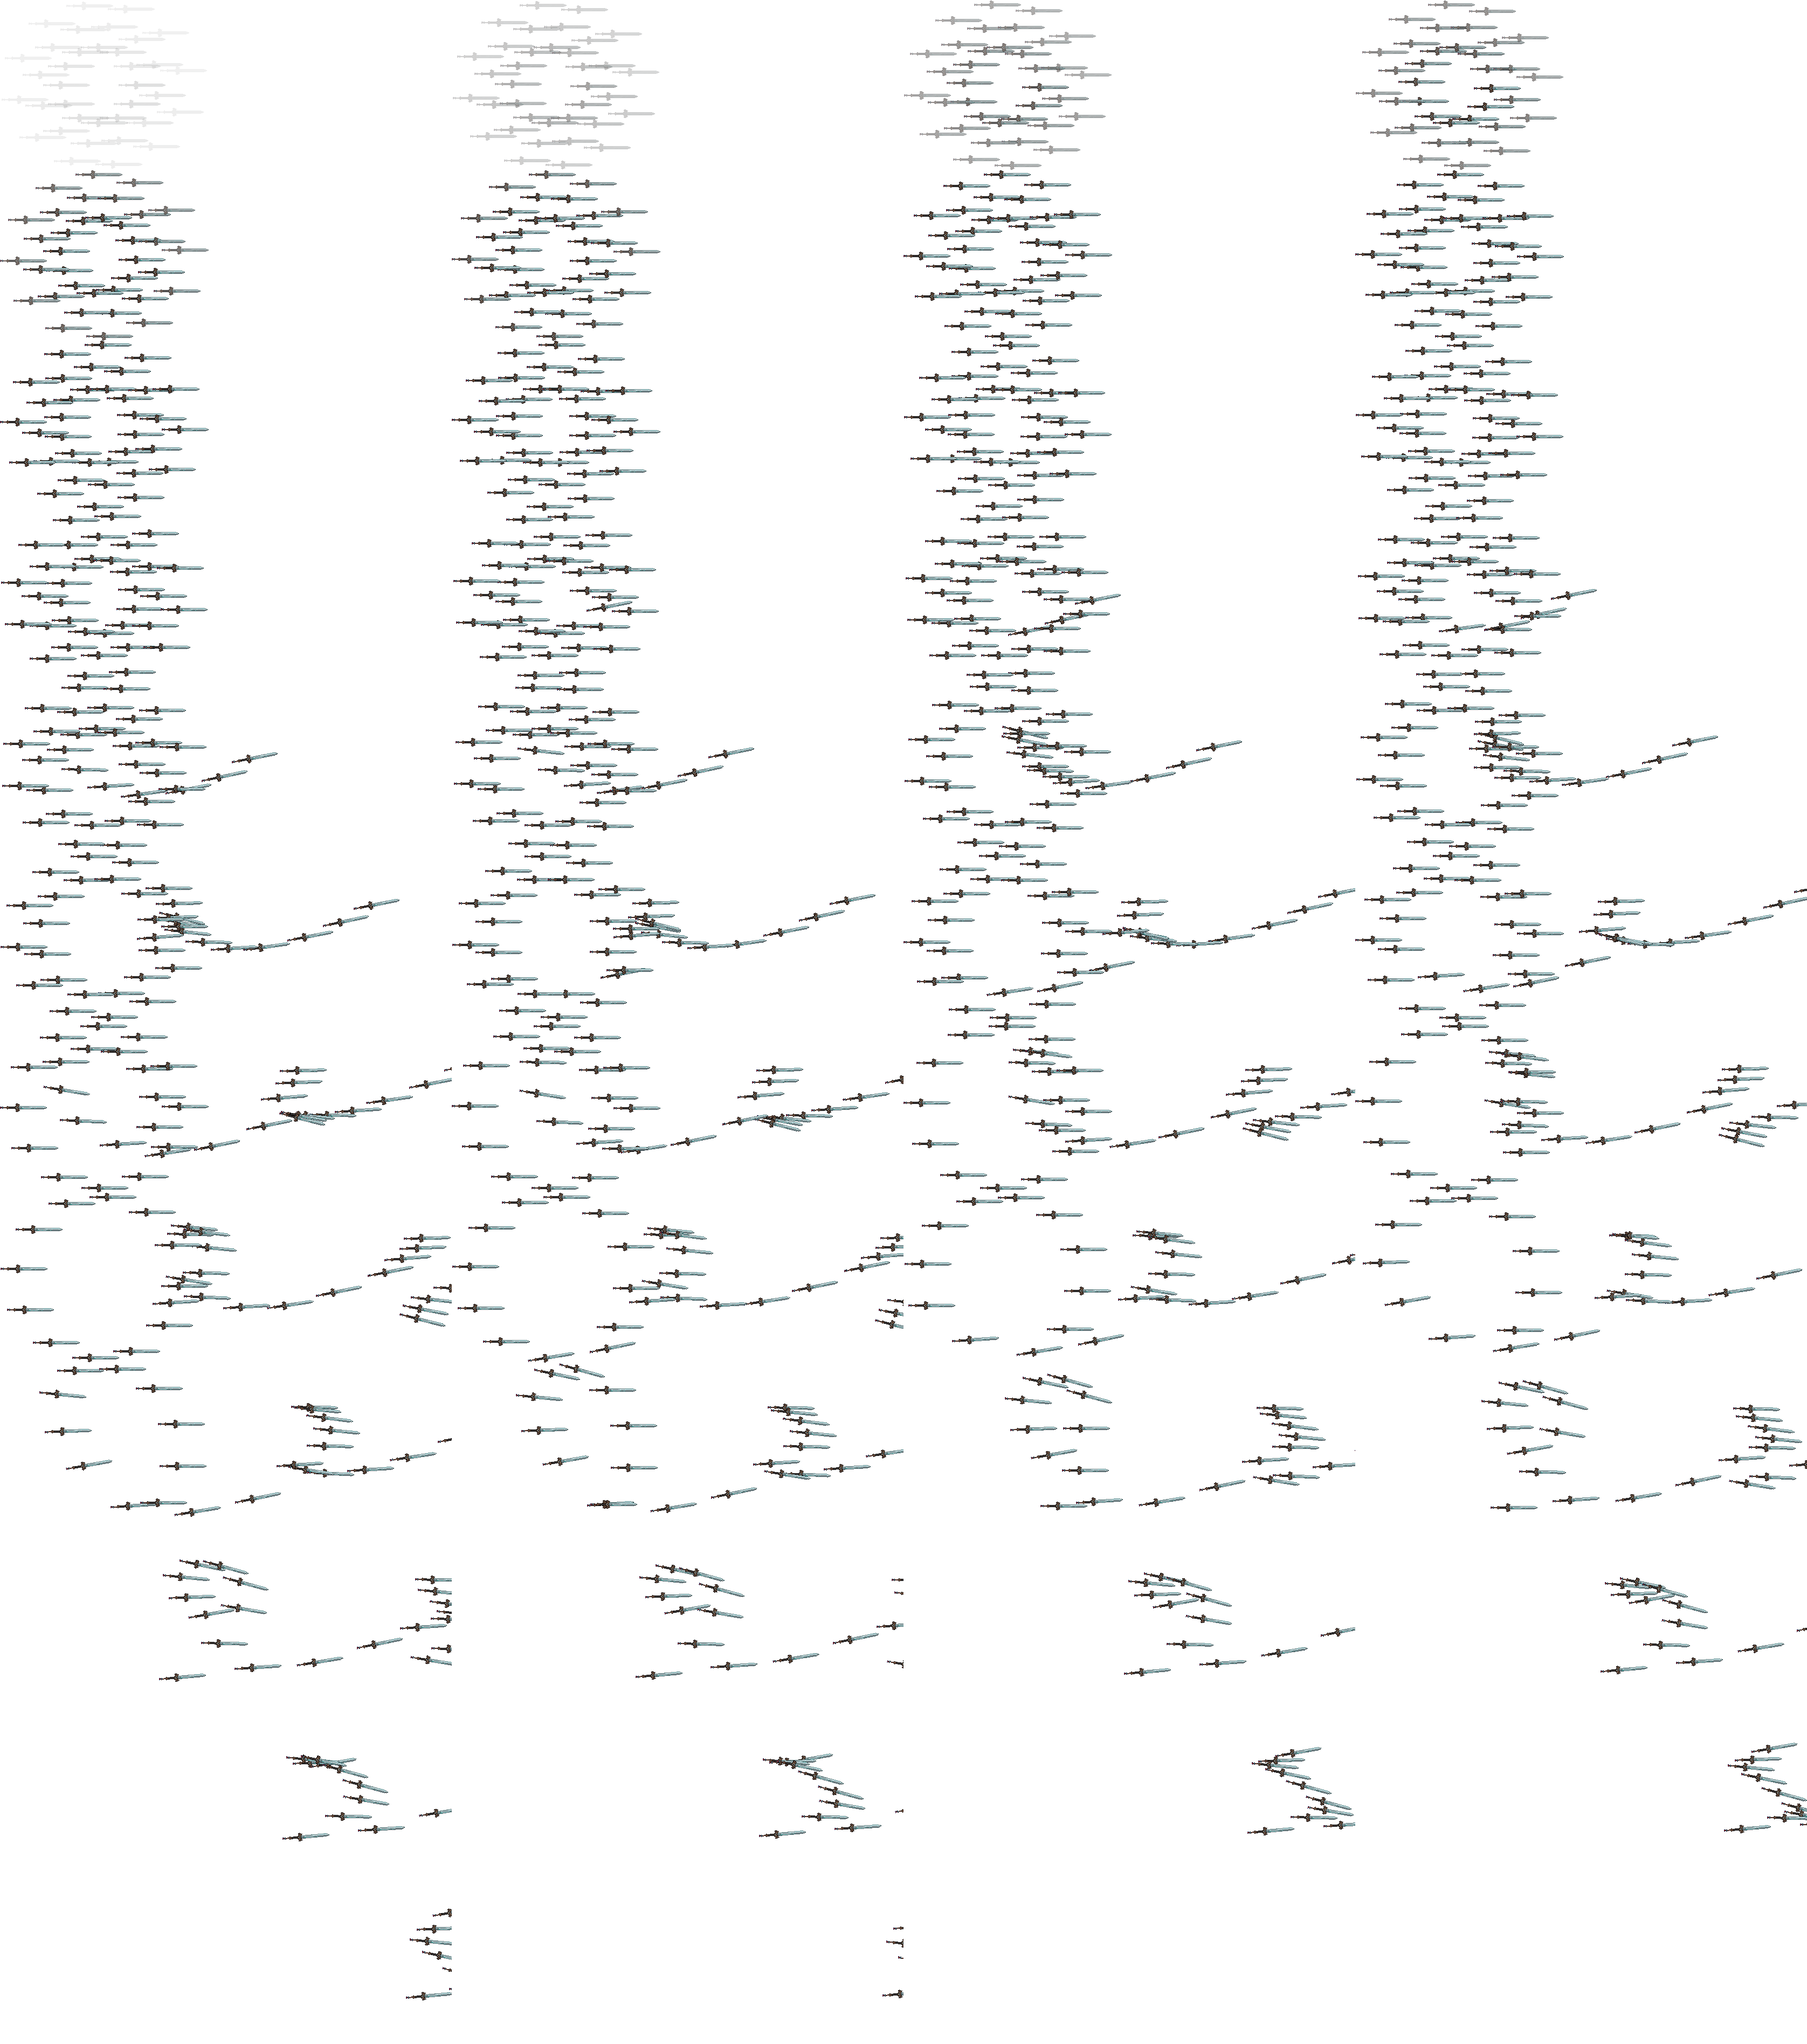
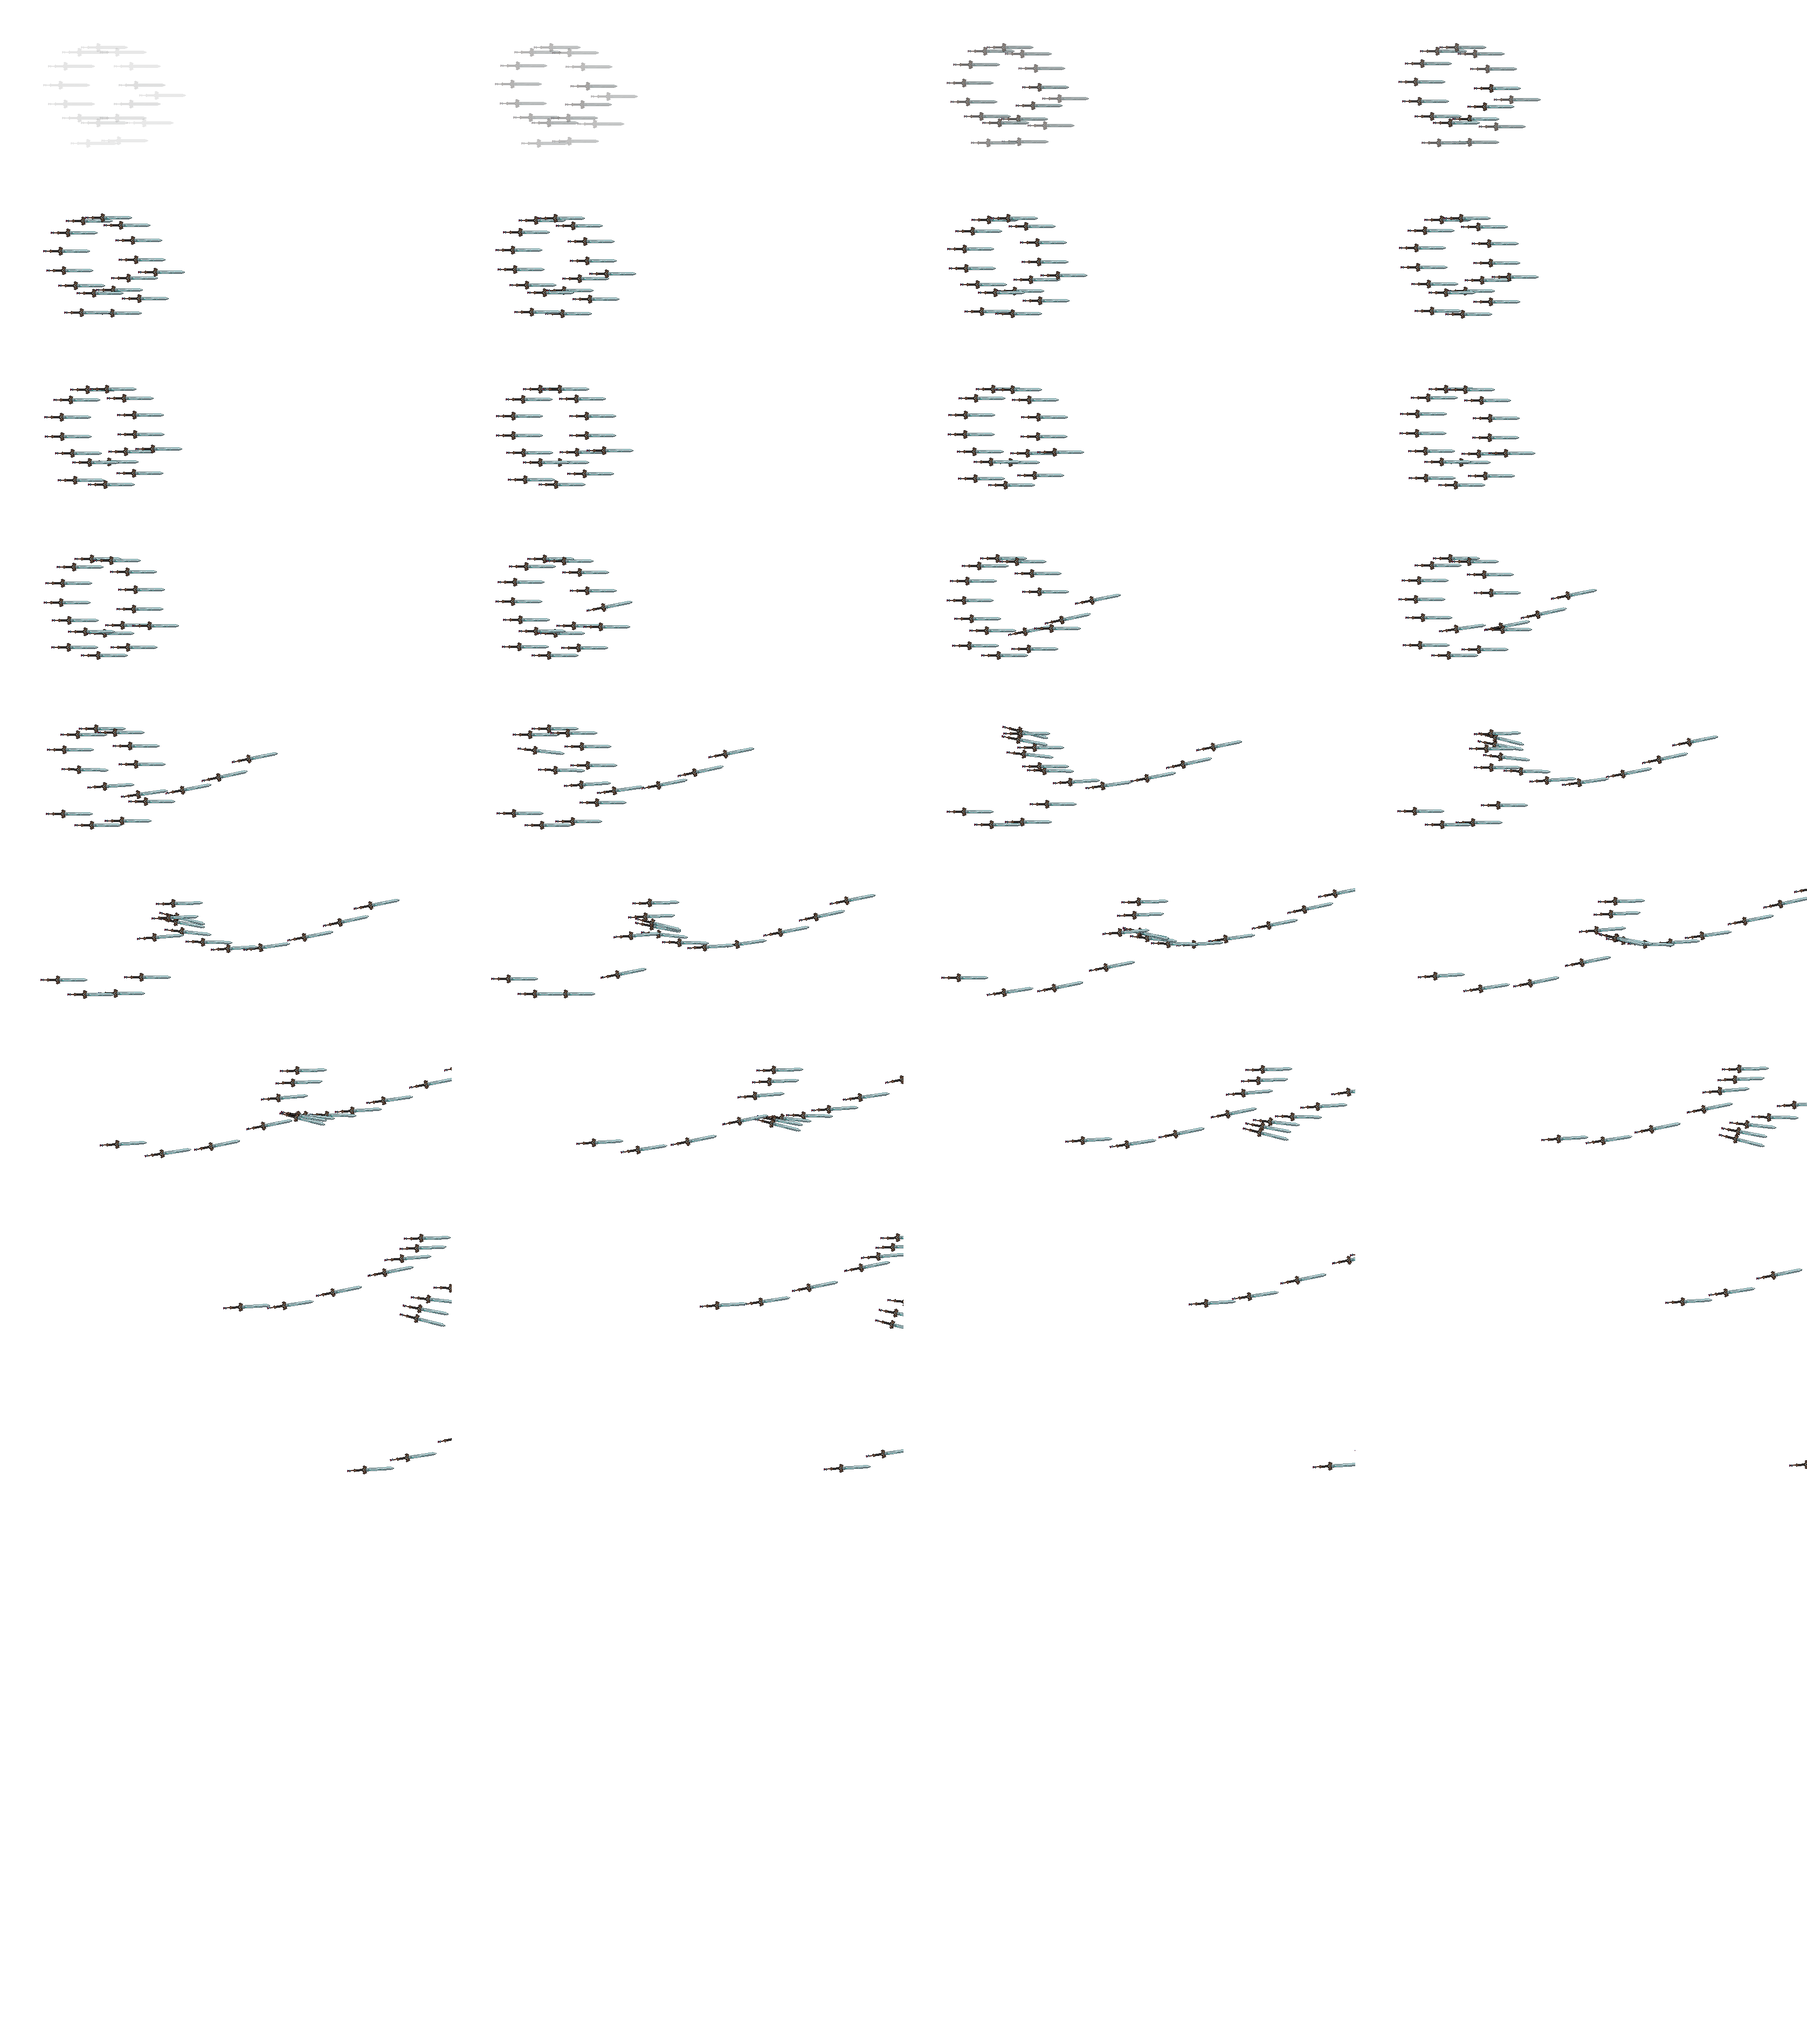
Vạn Kiếm Quy Tông: xuất lại VFX từ Godot 4.7.1 với 16 kiếm (bản gốc 36), dời các đợt sát thương khớp; lưu bản cũ và quy trình bake

diff --git a/game/index.html b/game/index.html
@@ -1988,11 +1988,11 @@ const WEAPONS={
   {id:'k3',power:12,name:'Hồi Phong Quy Sao',g:'旋',kind:'auto',cd:9,mp:25,range:260,desc:'Ba phi kiếm bay vòng quanh người, tự lao tới chém quái ở gần rồi quay về.',up:'+0.5 giây, +25% sát thương',
    cast(tg,l){sfx('wanjian_launch',0.45,0.2);const n=3;addZone({kind:'blades',follow:1,T:6+0.5*(l-1),n,r:80*Ar(),dmg:this.power*lv(l)*pw(),o:H({kb:20}),hm:new Map(),rot:0,sw:Array.from({length:n},(_,i)=>({st:0,nx:0.3+i*0.25,x:P.x,y:P.y,ang:0}))})}},
   {id:'k6',hotkey:'X',power:38,name:'Vạn Kiếm Quy Tông',g:'萬',kind:'ult',cd:24,range:560,ground:true,aim:'lane',desc:'Kiếm hiện ra vây quanh người rồi lần lượt phóng thẳng theo hướng đã ngắm, xuyên mọi kẻ địch trong làn kiếm. Ngắm: di chuột hoặc chạm để chọn hướng, thấy rõ làn kiếm trước khi thả.',up:'+25% sát thương',
-   /* VFX gói Wuxia (Vạn Kiếm Quy Tông bản gốc, phóng ngang), xuất từ demo Godot: kiếm tụ quanh người ~1,2s rồi phóng */
+   /* VFX gói Wuxia (Vạn Kiếm Quy Tông), xuất lại từ demo Godot 4.7.1 với 16 kiếm (bản gốc 36; bản cũ ở nguon/vfx_goc/vk_e_36kiem.png). Kiếm tụ quanh người ~1,2s rồi phóng, hết khoảng 2,9s */
    cast(tg,l){const dd=Math.hypot(tg.x-P.x,tg.y-P.y),a=dd>24?Math.atan2(tg.y-P.y,tg.x-P.x):(P.facing===-1?Math.PI:0),f=Math.cos(a)<0?-1:1;if(Math.abs(Math.cos(a))>0.15)P.facing=f;const x0=P.x,y0=P.y,dmg=this.power*lv(l)*pw()*0.6,ca=Math.cos(a),sa=Math.sin(a);
     /* sprite gốc phóng sang phải; hướng trái thì lật ngang rồi xoay phần còn lại để kiếm không bị ngược */
     sfx('wanjian_launch',0.6,0.15);fx({k:'sp',s:'vk_e',x:x0,y:y0,sc:0.96,fx:f,ang:f===1?a:a-Math.PI,T:3.83,follow:0});
-    for(let i=0;i<6;i++)later(1.2+i*0.4,()=>{const ax=x0,ay=y0-20,bx=x0+ca*560,by=ay+sa*560,mx=(ax+bx)/2,my=(ay+by)/2,hl=280;
+    for(let i=0;i<6;i++)later(1.2+i*0.32,()=>{const ax=x0,ay=y0-20,bx=x0+ca*560,by=ay+sa*560,mx=(ax+bx)/2,my=(ay+by)/2,hl=280;
      for(const e of enemiesIn(mx,my,hl+110)){if(e.dead)continue;if(segDist(e.x,e.y,ax,ay,bx,by)<=e.r+70)hit(e,dmg,H({kb:40}),ax,ay)}},null);
     notice('Vạn Kiếm Quy Tông')}},
  ]},

diff --git a/cong_cu/claude/rebake_vankiem.md b/cong_cu/claude/rebake_vankiem.md
@@ -1,0 +1,6 @@
+# Xuất lại Vạn Kiếm (đã chạy 24/11/2026)
+1. Tải Godot 4.7.1 linux x86_64 (GitHub releases). Chép `nguon/pack_wuxia/Common_VFX` + `nguon/godot_bake/{Drive2.gd,Rec2.tscn}` ra thư mục tạm; thêm `viewport/transparent_background=true` vào mục `[rendering]` của `project.godot`.
+2. Đổi `const WANJIAN_COUNT=36` trong `Shared/TrainingCore.gd` (đã dùng 16).
+3. `xvfb-run -a godot --headless --path . --import` (BẮT BUỘC, không import thì khung trống), rồi
+   `xvfb-run -a -s "-screen 0 1280x900x24" godot --path . --rendering-driver opengl3 --write-movie <out>/f.png --fixed-fps 30 res://Rec2.tscn`.
+4. Khung k (0..45) của sheet = khung quay thứ `int(15+2.5*k)`, cắt cửa sổ góc trái-trên (442,365), rộng 838, cao 316 (khớp sheet cũ sai khác 0). Xếp 4 cột, 12 hàng → 3352×3792.
